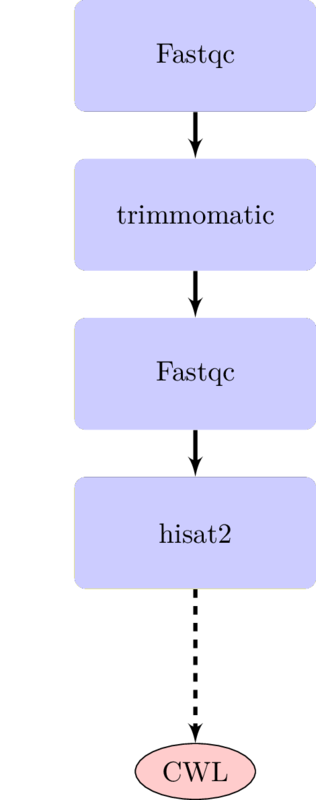
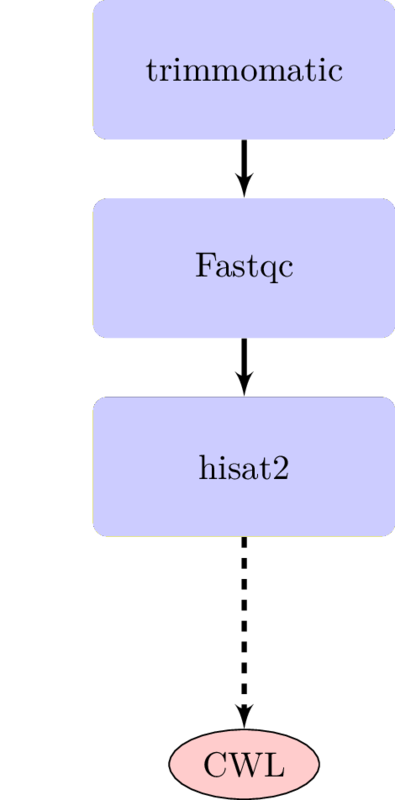
Removed fastqc from top chart

Changed region(s): [[0.2278, 0.3125, 1.0, 0.625], [0.2278, 0.0312, 1.0, 0.2812], [0.2278, 0.6562, 1.0, 1.0]]

diff --git a/generate_flowchart/useCase11.tex b/generate_flowchart/useCase11.tex
@@ -11,11 +11,9 @@
   % Place nodes
     \node [singleContainer] (trimmomatic) {trimmomatic};
     \node [singleContainer, below of=trimmomatic] (rightFastqc) {Fastqc};
-    \node [singleContainer, above of=trimmomatic] (leftFastqc) {Fastqc};
     \node [singleContainer, below of=rightFastqc] (hisat2) {hisat2};
     \node [method, below of=hisat2] (method) {bash script};
     % Draw edges
-    \path [arrow] (leftFastqc) -- (trimmomatic);
     \path [arrow] (trimmomatic) -- (rightFastqc);
     \path [arrow] (rightFastqc) -- (hisat2);
     \path [line, dashed] (hisat2)--(method);

diff --git a/generate_flowchart/useCase0.tex b/generate_flowchart/useCase0.tex
@@ -11,11 +11,9 @@
     % Place nodes
     \node [noContainer] (trimmomatic) {trimmomatic};
     \node [noContainer, below of=trimmomatic] (rightFastqc) {Fastqc};
-%    \node [noContainer, above of=trimmomatic] (leftFastqc) {Fastqc};
     \node [noContainer, below of=rightFastqc] (hisat2) {hisat2};
     \node [method, below of=hisat2] (bash) {bash script};
     % Draw edges
- %   \path [arrow] (leftFastqc) -- (trimmomatic);
     \path [arrow] (trimmomatic) -- (rightFastqc);
     \path [arrow] (rightFastqc) -- (hisat2);
     \path [line, dashed] (hisat2)--(bash);

diff --git a/generate_flowchart/useCase2.tex b/generate_flowchart/useCase2.tex
@@ -11,11 +11,9 @@
     % Place nodes
     \node [container] (trimmomatic) {trimmomatic};
     \node [container, below of=trimmomatic] (rightFastqc) {Fastqc};
-    \node [container, above of=trimmomatic] (leftFastqc) {Fastqc};
     \node [container, below of=rightFastqc] (hisat2) {hisat2};
     \node [method, below of=hisat2] (method) {CWL};
     % Draw edges
-    \path [arrow] (leftFastqc) -- (trimmomatic);
     \path [arrow] (trimmomatic) -- (rightFastqc);
     \path [arrow] (rightFastqc) -- (hisat2);
     \path [line, dashed] (hisat2)--(method);
